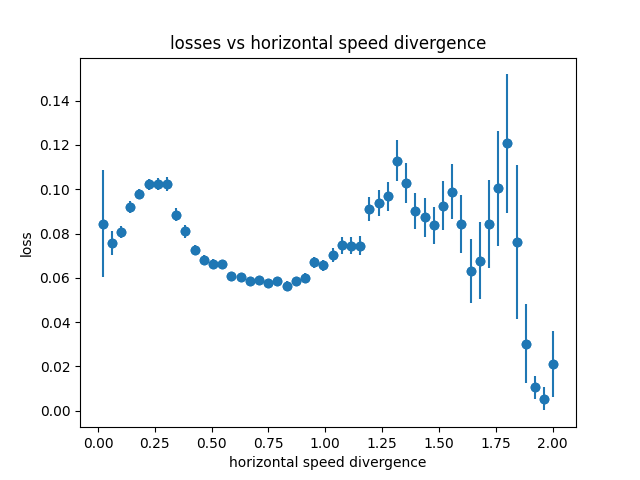
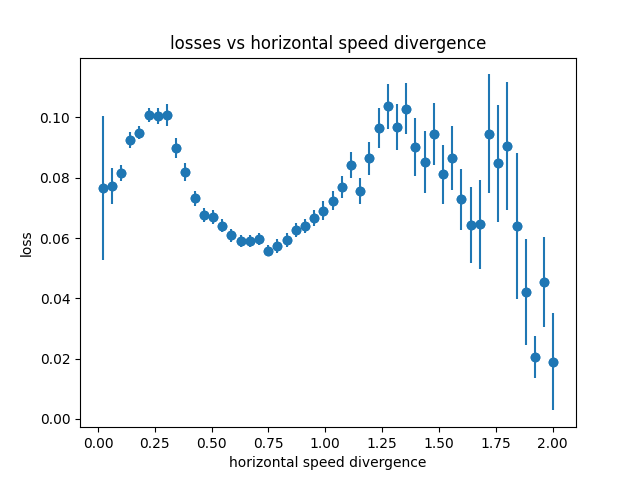
test opt

diff --git a/explo/conv_ae_distrib_optuna.py b/explo/conv_ae_distrib_optuna.py
@@ -175,7 +175,7 @@ def train(device, trial, batch_size, nb_epochs, train_losses, test_losses, input
         if epoch < 100:
             scheduler_enc.step()
             scheduler_dec.step()
-            if epoch>20:
+            if epoch>30:
                 scheduler_mean.step()
                 scheduler_logvar.step()
                 scheduler_reg.step()
@@ -239,7 +239,7 @@ def objective(trial):
         outs[i] = output
 
     batch_size = 32             
-    nb_epochs = 50      
+    nb_epochs = 70      
     train_losses=[]
     test_losses=[]
 
@@ -248,12 +248,12 @@ def objective(trial):
 
 if __name__ == '__main__':
 
-    sampler = optuna.samplers.TPESampler()
+    sampler = optuna.samplers.CmaEsSampler(restart_strategy='ipop',inc_popsize=1)
     pruner = optuna.pruners.MedianPruner(n_warmup_steps=5)
     study = optuna.create_study(direction="minimize", pruner=pruner, sampler=sampler)
     print("starting optimization")
     print('using cuda : ', torch.cuda.is_available())
-    study.optimize(objective, n_trials=50, timeout=10800)
+    study.optimize(objective, n_trials=150, timeout=10800)
 
     pruned_trials = study.get_trials(deepcopy=False, states=[TrialState.PRUNED])
     complete_trials = study.get_trials(deepcopy=False, states=[TrialState.COMPLETE])

diff --git a/explo/eval_models.py b/explo/eval_models.py
@@ -289,7 +289,7 @@ class AE_CNN(nn.Module):
         return self.regression(x)
 
 class AE_CNN_D(nn.Module):
-    def __init__(self, input_features, output_features, drop_prob1=0.301, drop_prob2=0.121, drop_prob3=0.125, drop_prob4=0.125, hidden_size1=288, hidden_size2=471, hidden_size3=300):
+    def __init__(self, input_features, output_features, drop_prob1=0.053, drop_prob2=0.009, drop_prob3=0.094, drop_prob4=0.209, hidden_size1=117, hidden_size2=458, hidden_size3=255):
         super(AE_CNN_D, self).__init__()
         self.encoder = nn.Sequential(nn.BatchNorm1d(input_features, eps=1e-05, momentum=0.1, affine=True, track_running_stats=True),
                                         nn.Conv1d(in_channels=input_features, out_channels=input_features, kernel_size=2, stride=1, padding=0, dilation=1, groups=input_features, bias=True),

diff --git a/modules/utils.py b/modules/utils.py
@@ -124,7 +124,7 @@ def plot_output(pred_ds,true_ds,L,z,fig_name,color='RdBu'):
     fig.colorbar(pred, ax=ax2,orientation='vertical', fraction=0.046, pad=0.04)
     ax2.set_title(f"2-D Heat Map of heat-flux predictions at Altitude {z}")
     
-    diff = ax3.imshow(np.abs(true_z-pred_z), cmap=color, interpolation='nearest')
+    diff = ax3.imshow(np.abs(true_z-pred_z), cmap=color, interpolation='nearest', vmin=0, vmax=3.5)
     fig.colorbar(diff, ax=ax3, orientation='vertical', fraction=0.046, pad=0.04)
     ax3.set_title(f"Abs difference between true and pred heat-flux")
     
